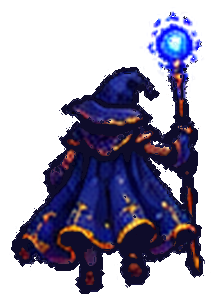
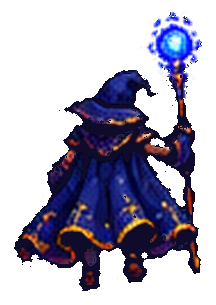
v58: contorno fino padronizado em todas as poses da Maga
Claude-Session: https://claude.ai/code/session_01YFC38PcyDKAfPNhJ7r1cKG

diff --git a/sw.js b/sw.js
@@ -1,4 +1,4 @@
-const CACHE='bd1-rpg-v57';
+const CACHE='bd1-rpg-v58';
 const ASSETS=['./','./index.html','./game.html','./lobby.js','./lobby.css','./select_plate.webp','./char_mage.webp','./char_knight.webp','./char_tank.webp','./char_assassin.webp','./panel_mage.webp','./panel_knight.webp','./panel_tank.webp','./panel_assassin.webp','./style.css','./app.js','./anim.js','./mage.js','./cleric.js','./clr/at1.png','./clr/at2.png','./clr/at3.png','./clr/bg1.png','./clr/bg2.png','./clr/bg3.png','./clr/bg4.png','./clr/bp1.png','./clr/bp2.png','./clr/bp3.png','./clr/br1.png','./clr/br2.png','./clr/br3.png','./clr/br4.png','./clr/br5.png','./clr/br6.png','./clr/bt1.png','./clr/bt2.png','./clr/bt3.png','./clr/bt4.png','./clr/d1.png','./clr/d2.png','./clr/d3.png','./clr/d4.png','./clr/dg1.png','./clr/dg2.png','./clr/dg3.png','./clr/dn1.png','./clr/dn2.png','./clr/dn3.png','./clr/ds1.png','./clr/ex1.png','./clr/fx_aura.png','./clr/fx_burst.png','./clr/fx_cross1.png','./clr/fx_lotus.png','./clr/fx_pillar.png','./clr/fx_pillar2.png','./clr/fx_ring1.png','./clr/fx_ring2.png','./clr/fx_ring3.png','./clr/fx_star1.png','./clr/fx_star2.png','./clr/fx_star3.png','./clr/fx_star4.png','./clr/fx_streak1.png','./clr/fx_streak2.png','./clr/fx_streak3.png','./clr/fx_sunstar.png','./clr/hat1.png','./clr/hat2.png','./clr/idle1.png','./clr/meta.json','./clr/pr1.png','./clr/pr2.png','./clr/stf.png','./clr/ult1.png','./clr/ult2.png','./clr/v1.png','./clr/v2.png','./mage3/air.png','./mage3/atk1.png','./mage3/atk2.png','./mage3/atk3.png','./mage3/bh1.png','./mage3/bh2.png','./mage3/castdef.png','./mage3/defair.png','./mage3/defearth.png','./mage3/deffire.png','./mage3/defmana.png','./mage3/defwater.png','./mage3/dodge1.png','./mage3/dodge2.png','./mage3/dodge3.png','./mage3/dodge4.png','./mage3/earth.png','./mage3/fire.png','./mage3/fx_air_swirl.png','./mage3/fx_bh_big.png','./mage3/fx_bh_big2.png','./mage3/fx_bh_small.png','./mage3/fx_bh_spikes.png','./mage3/fx_bolt.png','./mage3/fx_comet.png','./mage3/fx_cross.png','./mage3/fx_crystal.png','./mage3/fx_earth_spikes.png','./mage3/fx_fire_fall.png','./mage3/fx_mana_aura.png','./mage3/fx_orb_blue.png','./mage3/fx_orb_orange.png','./mage3/fx_orb_red.png','./mage3/fx_orbb.png','./mage3/fx_ring_floor.png','./mage3/fx_rock.png','./mage3/fx_rocks.png','./mage3/fx_star_big.png','./mage3/fx_star_small.png','./mage3/fx_water_pillar.png','./mage3/fx_whirl.png','./mage3/idle1.png','./mage3/idle2.png','./mage3/idle3.png','./mage3/idle4.png','./mage3/meta.json','./mage3/spin1.png','./mage3/spinwide.png','./mage3/stars.png','./mage3/swingf.png','./mage3/swingl.png','./mage3/swingr.png','./mage3/water.png','./anim/manifest.json','./spr_mage.webp','./spr_knight.webp','./spr_tank.webp','./spr_assassin.webp','./spr_boss.webp','./game_clean.png','./question_panel.png','./icon_attack.png','./icon_coin.png','./manifest.webmanifest','./potion_hp.png','./potion_mana.png'];
 // Tudo em cache (abre instantâneo, até offline). Em segundo plano o SW confere a rede (requisição condicional, barata);
 // se algum arquivo mudou, atualiza o cache e avisa a página, que recarrega sozinha (menu) ou mostra o aviso (jogo).

diff --git a/tools/thin_outline.py b/tools/thin_outline.py
@@ -1,0 +1,34 @@
+# Padroniza o contorno da Maga: reduz a faixa escura externa (contorno original + halo da folha ampliada) para 2px em TODAS as poses do corpo
+# e a repinta com a mesma cor (NAVY). Idempotente via flag 'thin'. Uso: python3 tools/thin_outline.py [espessura=2]
+import numpy as np, json, sys
+from PIL import Image
+from scipy import ndimage as ndi
+D = 'mage3'; M = json.load(open(f'{D}/meta.json')); KEEP = int(sys.argv[1]) if len(sys.argv) > 1 else 2
+NAVY = np.array([14, 12, 42], np.uint8)
+SKIP = ('def', 'castdef', 'bh2')
+for name, m in M['poses'].items():
+    if m.get('thin') or name.startswith(SKIP[0]) or name in SKIP[1:]: continue
+    im = np.array(Image.open(f'{D}/{name}.png').convert('RGBA')); rgb = im[..., :3].astype(int)
+    solid = im[..., 3] >= 128
+    grad = name in ('spin1', 'stars', 'spinwide', 'swingf', 'swingl', 'swingr')
+    ringlike = solid & ((rgb.max(2) < 160) if grad else ((rgb.max(2) < 90) & ((rgb[..., 2] - rgb[..., 0]) < 50)))
+    out = ~solid
+    seed = ringlike & ndi.binary_dilation(out, iterations=1)
+    depth = ndi.distance_transform_edt(np.pad(solid, 1))[1:-1, 1:-1]
+    cap = 6 if grad else 5
+    ys0 = np.where(solid.any(1))[0]; b0 = ys0.max()
+    for _p in range(2 if grad else 1):
+        solid = im[..., 3] >= 128; rgb = im[..., :3].astype(int)
+        ringlike = solid & ((rgb.max(2) < 160) if grad else ((rgb.max(2) < 90) & ((rgb[..., 2] - rgb[..., 0]) < 50)))
+        depth = ndi.distance_transform_edt(np.pad(solid, 1))[1:-1, 1:-1]
+        seed = ringlike & ndi.binary_dilation(~solid, iterations=1)
+        ring = ndi.binary_propagation(seed, mask=ringlike & (depth <= cap))
+        D_ = np.where(ring, np.ceil(depth), 0); MD = ndi.maximum_filter(D_, size=7)
+        rem = ring & (MD >= D_ + KEEP)
+        im[rem] = 0
+        left = ring & ~rem; im[left, :3] = NAVY
+    solid2 = im[..., 3] >= 128; ys1 = np.where(solid2.any(1))[0]; b1 = ys1.max()
+    m['gy'] = float(m['gy']) - (b0 - b1)
+    m['thin'] = True
+    Image.fromarray(im).save(f'{D}/{name}.png')
+json.dump(M, open(f'{D}/meta.json', 'w'), default=float)

diff --git a/README.md b/README.md
@@ -237,3 +237,6 @@ Animações por código removidas de vez. `anim.js` toca sprite sheets desenhado
 - Mana não regenera mais: só sobe com Poção de Mana.
 - Cenário trocado (salão do trono novo); HUD (boss, moedas, cartões dos heróis, painel) preservado.
 - Tremor do cenário reduzido a quase nada (±1px).
+
+## v58
+- Maga: contorno padronizado e fino (2px) em todas as poses do corpo (tools/thin_outline.py); poses das folhas ampliadas (giros/golpes) e idle3/dodge3 estavam com contorno de 5-8px.
